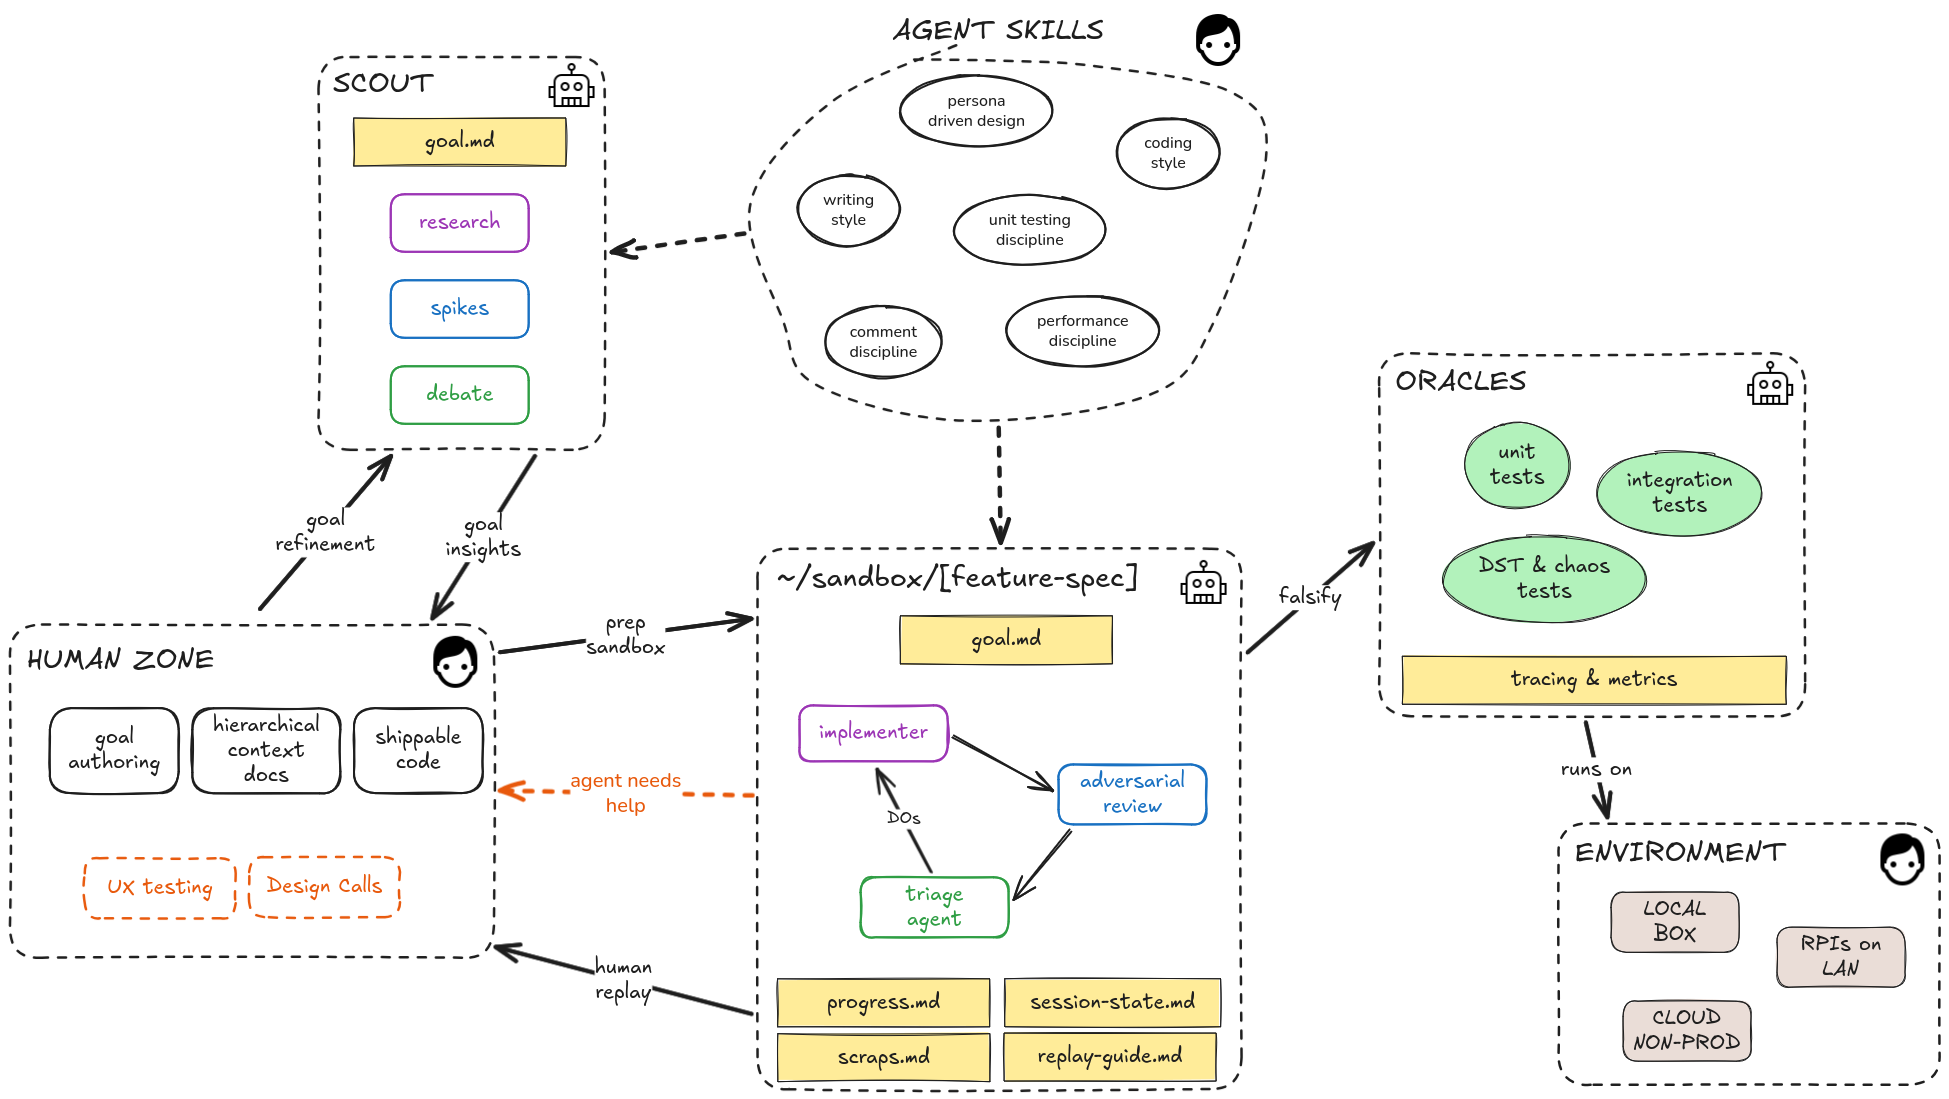
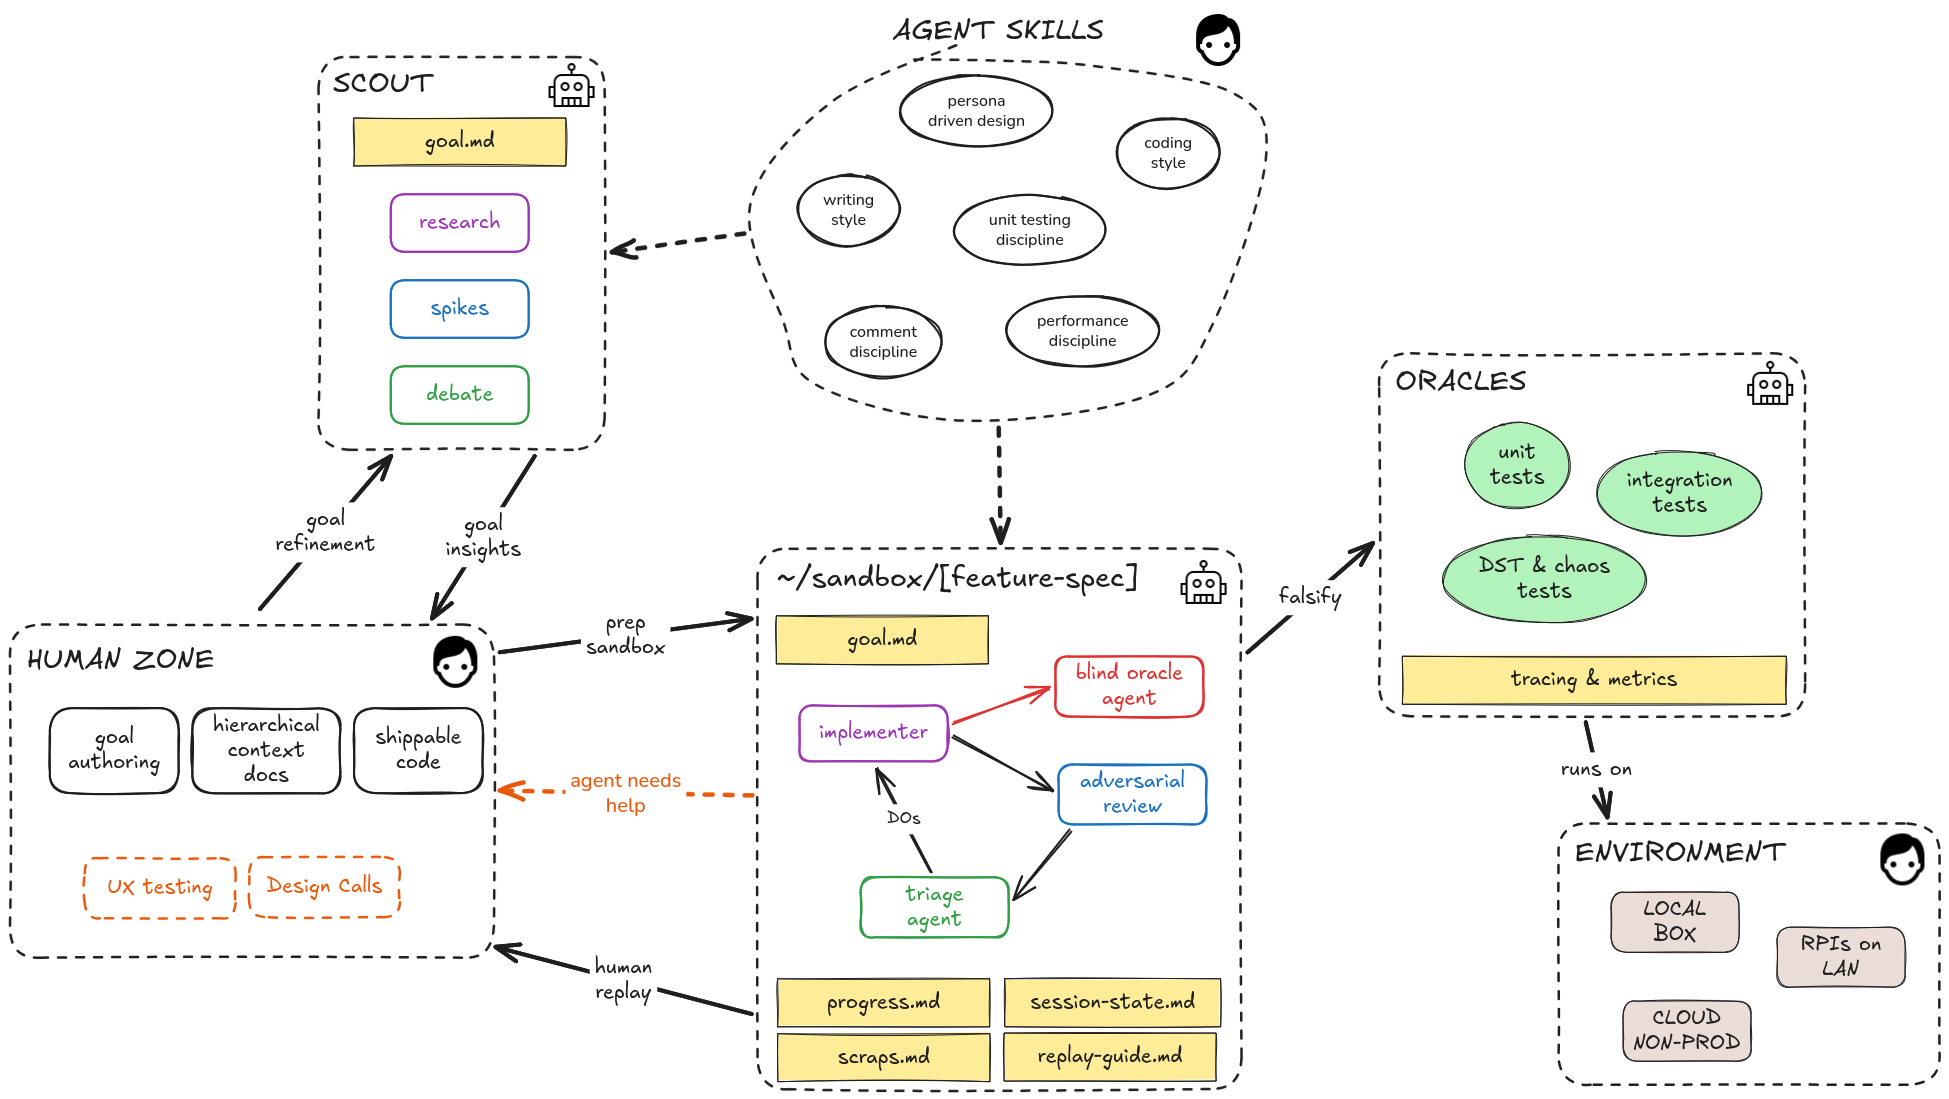
added blind oracle agent and optional orchestrator only option in sandbox

Changed region(s): [[0.4002, 0.5569, 0.6157, 0.6497]]

diff --git a/skills/adversarial-loop/SKILL.md b/skills/adversarial-loop/SKILL.md
@@ -1,6 +1,6 @@
 ---
 name: adversarial-loop
-description: The central operating loop for autonomous sandbox build-out - empirical plus adversarial. The implementer takes a goal and builds it phase by phase, proving every change against oracles (unit/integration/DST/chaos tests, underpinned by tracing and metrics); an adversarial review attacks each phase; a triage agent 4Ds the findings into do, session/scraps.md, or dropped. Ends by generating session/replay-guide.md, never by shipping. Use whenever building autonomously in a sandbox. Read before starting any non-trivial build.
+description: The central operating loop for autonomous sandbox build-out - empirical plus adversarial. The implementer takes a goal and builds it phase by phase - holding the pen itself or delegating a phase to a sub-agent when context runs short - proving every change against oracles (unit/integration/DST/chaos tests, underpinned by tracing and metrics); a blind oracle sub-agent black-box tests the contract first; an adversarial review attacks each phase; a triage agent 4Ds the findings into do, session/scraps.md, or dropped. Ends by generating session/replay-guide.md, never by shipping. Use whenever building autonomously in a sandbox. Read before starting any non-trivial build.
 ---
 
 # The Adversarial Loop
@@ -12,20 +12,31 @@ An agent that writes code and reads it back is flying blind: the model wrote the
 The input is the goal: authored in the human zone, refined by the `scout`, living at `session/goal.md` in the sandbox. The implementer builds it phase by phase, not all in one go. Each phase:
 
 ```
-implement the phase -> prove against the oracles -> adversarial review (fresh context)
+implement the phase -> blind oracle writes contract tests (fresh context, surface only)
+   -> prove against the oracles -> adversarial review (fresh context)
    -> triage agent (4Ds) -> fix the do-list -> review again
    -> only nits left? next phase
 ```
 
-Three agents, three jobs. The implementer writes code and proves it works. The adversarial review pokes holes. The triage agent decides which holes are worth filling. Collapse any two of them into one context and that job stops working.
+Four agents, four jobs. The implementer writes code and proves it works. The blind oracle tests the contract without ever seeing the code. The adversarial review pokes holes. The triage agent decides which holes are worth filling. Collapse any two of them into one context and that job stops working.
 
 ## Topology
 
-The implementer is the root agent. The adversarial review and the triage agent are sub-agents, spawned fresh each phase.
+The implementer is the root agent. The blind oracle, the adversarial review, and the triage agent are sub-agents, spawned fresh each phase.
 
-Why not a neutral orchestrator over three sub-agents? Context. The implementer is the only role that benefits from history - the goal, the scout's insights, what was tried and rejected. Fresh context is the adversarial review's feature and would be the implementer's handicap. An orchestrator holds no role of its own and pays handoff cost in both directions for nothing.
+Why not a neutral orchestrator over four sub-agents? Context. The implementer is the only role that benefits from history - the goal, the scout's insights, what was tried and rejected. Fresh context is the other roles' feature and would be the implementer's handicap. A stateless orchestrator holds no role of its own and pays handoff cost in both directions for nothing.
 
-The leak to guard is the implementer holding the pen on what the other two see. Findings travel through files, never through the implementer's paraphrase: the adversarial review writes findings to a file, the triage agent reads the code and that file directly, and the implementer receives only the triaged do-list. An implementer summarising the review for triage is the author filtering its own review.
+The leak to guard is the implementer holding the pen on what the other roles see. Findings travel through files, never through the implementer's paraphrase: the adversarial review writes findings to a file, the triage agent reads the code and that file directly, and the implementer receives only the triaged do-list. An implementer summarising the review for triage is the author filtering its own review.
+
+## Who holds the pen
+
+The root agent implements by default, per the topology above. But it can farm a phase's implementation to a fresh sub-agent and keep only orchestration: plan the phase, write the brief, spawn the implementer, route the triaged do-list back. Decide per phase, not per run.
+
+Delegate when context pressure demands it. Long multi-phase runs die by compaction when the root writes the code itself - the diffs, the test output, the dead ends all accumulate in the one window that also has to survive to generate session/replay-guide.md. A delegated phase costs the root a brief and a result summary instead of the whole trail. If the projection is that the remaining phases plus the replay guide do not fit in the current window, stop holding the pen.
+
+Delegation also buys role hygiene by construction instead of by discipline. With a sub-agent implementer, raw adversarial findings cannot reach the pen even by accident: triage filters first, gold-plating dies in `session/scraps.md` or in the Delete bin, and the implementation context only ever contains the goal, the phase brief, and the do-list.
+
+The cost is real: a sub-agent implementer reads the goal fresh and explores the code fresh, every phase. For work that fits comfortably in the root's window, that re-onboarding is pure overhead and the root should keep the pen. This is the same trade the Stopping section makes for the replay guide - hot context is an asset, spend it while it holds.
 
 ## Prove, don't trust
 
@@ -68,6 +79,16 @@ Oracles rely on a realistic test environment. Run each in the cheapest environme
 The quality of the code the implementer can write is directly proportional to the falsification depth of the oracles. The oracles must be able to prove what the implementer wrote is wrong - that is the only feedback that corrects code mistakes. Unit tests falsify logic. Integration falsifies wiring. Only DST or chaos falsifies a fencing race. Ask an agent to build past the depth of its oracles and it will: the code will look right, pass everything available, and carry the bugs nothing could catch.
 
 So before implementing, ask: can the current oracles falsify the failure modes of this phase? If they can and do not exist yet, the oracle is the first deliverable, not the feature. If the behaviour is unfalsifiable by any oracle - UX, the feel of a screen - that is not a missing sensor to build, it is UX testing: queue it for the human.
+
+## The blind oracle
+
+The implementer's tests inherit the implementer's assumptions. The context that wrote the bug writes the tests that check for it, and both share the same blind spot: the tests verify the code as built, not the contract as promised.
+
+The blind oracle is a fresh sub-agent handed only the external surface - the public API, the goal's contract, whatever a consumer of the system would get - and told to write tests against it. Unit, integration, DST, or chaos, whichever layers the contract demands. It never reads the implementation. Black box, fresh context.
+
+It writes the first tests. Once a phase's surface settles - which can be before the implementation exists - the blind oracle's tests define what satisfying the contract means, and the phase is not proven until they pass. The implementer still writes its own tests on top - seeing the internals is a privilege the oracle deliberately lacks, and it reaches edge cases, error paths, and invariants invisible from outside. Two complementary test sets: the blind oracle proves the promise, the implementer proves the mechanism.
+
+The leak to guard: an oracle that peeks at the implementation is the author's test suite with extra steps. Give it the interface and the test scaffolding, not the implementation source.
 
 ## The adversarial review
 

diff --git a/skills/method-overview/SKILL.md b/skills/method-overview/SKILL.md
@@ -22,7 +22,7 @@ Part of goal authoring is checking the goal makes sense and is achievable. Agent
 
 ## The sandbox
 
-A refined goal is never implemented inside the shippable code. The prep step copies it to a sandbox, and the implementer builds it there phase by phase under the `adversarial-loop`: prove each phase against oracles (unit, integration, DST, chaos - `test-taxonomy`, `unit-testing-discipline` - underpinned by tracing and metrics), adversarial review from a fresh context, 4D triage into a do-list and session/scraps.md. Falsification depth bounds what the agent can build; the oracles must be able to prove the implementation wrong.
+A refined goal is never implemented inside the shippable code. The prep step copies it to a sandbox, and the implementer builds it there phase by phase under the `adversarial-loop`: a blind oracle sub-agent writes black-box tests against the phase's external surface first, then prove each phase against oracles (unit, integration, DST, chaos - `test-taxonomy`, `unit-testing-discipline` - underpinned by tracing and metrics), adversarial review from a fresh context, 4D triage into a do-list and session/scraps.md. Falsification depth bounds what the agent can build; the oracles must be able to prove the implementation wrong. The implementer holds the pen by default but can delegate a phase's implementation to a sub-agent when the run is long enough that context, not capability, becomes the constraint.
 
 The work is autonomous: anything needing a human queues in scraps.md and surfaces at loop end. The agent interrupts mid-loop only for a nuclear, non-deferrable design fork or blocking UX testing. State lives in session/session-state.md, session/progress.md, and session/scraps.md.
 
